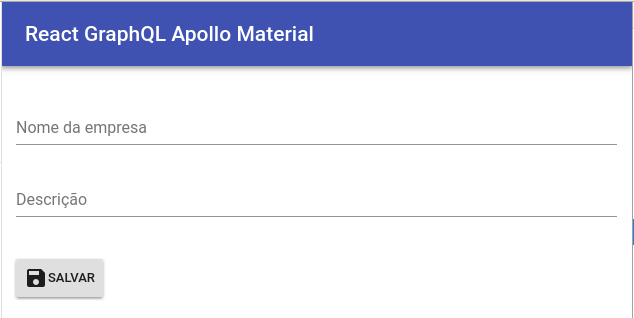
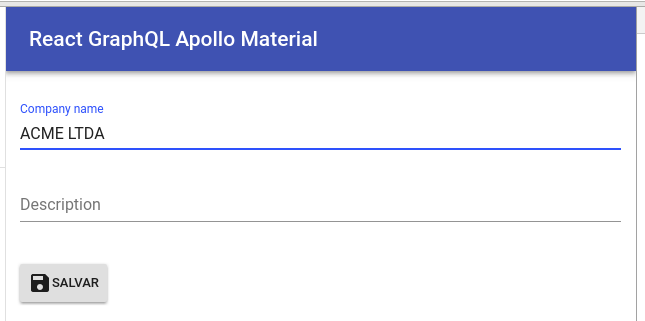
Finishing add customer docs

Changed region(s): [[0.0, 0.0, 1.0, 1.0]]

diff --git a/README.md b/README.md
@@ -252,7 +252,7 @@ class CustomerNew extends Component {
                 <div className='main'>
                     <TextField
                         id="name"
-                        label="Nome da empresa"
+                        label="Company name"
                         className='textField'
                         margin="normal"
                         autoFocus={true}
@@ -260,7 +260,7 @@ class CustomerNew extends Component {
                         />
                     <TextField
                         id="multiline-flexible"
-                        label="Descrição"
+                        label="Description"
                         multiline
                         rowsMax="4"
                         className='textField'
@@ -293,6 +293,42 @@ Things to know:
 1. The last line exports the component calling the `graphql` method, which will handle all things for us  
 2. Apollo will bind the mutation to our component `props`  
 3. Then we can just call the mutation passing the necessary data
+
+Now we need to create the GraphQL mutation.  
+Create a file called `graphql.js` on the top level of customer dir.  
+
+```javascript
+import gql from 'graphql-tag'
+
+export const ADD_ORGANIZATION = gql`
+    mutation(
+        $name: String!, 
+        $description: String!,
+        $email: String,
+        $site: String,
+        $address: String) {
+        createOrganization(input: {
+            organization: { 
+                ownerId:1, 
+                name: $name, 
+                description: $description,
+                email: $email,
+                site: $site,
+                address: $address,
+                active: true
+            }
+        }) {
+            organization {
+                id
+            }
+        }
+    }
+`
+```
+Note that this mutation is based on the GraphQL API we have. You probably will have something different, but the cool thing is you can just copy the mutation and paste here.  
+That's pretty much all we need to do.  
+
+Here's our rendered component ready to add some customers!  
 
 ![Customer new](public/customer-new.png)
 
